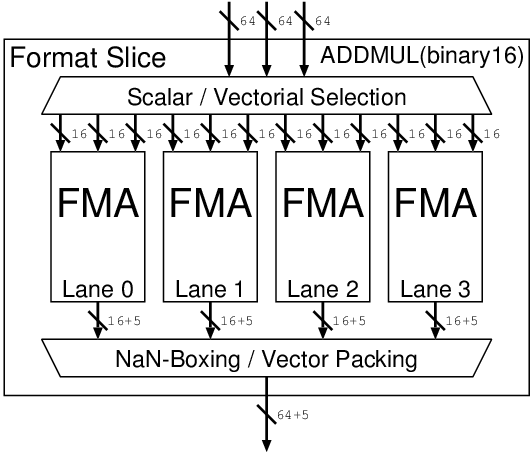
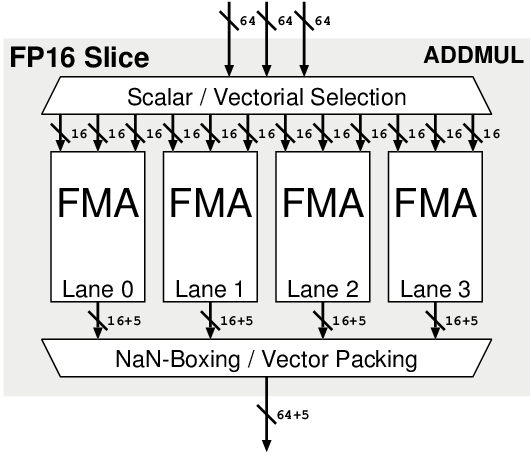
:books: Update documentation

diff --git a/ips/fpnew/docs/README.md b/ips/fpnew/docs/README.md
@@ -427,6 +427,8 @@ Results from all lanes are collected and assembled at the output of the slice.
 
 Implementing units as merged slices usually yields best total area, however costs more in terms of per-format latency.
 
+When the `ADDMUL` block is implemented using the `MERGED` implementation, multi-format FMA (multiplication done in `src_format`, accumulation in `dst_format`) is automatically supported among all formats using `MERGED`.
+
 ![FPnew](fig/multislice_block.png)
 
 
@@ -435,6 +437,9 @@ Implementing units as merged slices usually yields best total area, however cost
 Pipeline registers are inserted into the operational units directly, according to the settings in the  `Implementation` parameter.
 As such, each slice in the system can have a different latency.
 Merged slices are bound to thave the largest latency of the included formats.
+
+All pipeline registers are inserted as shift registers at predefined locations in the FPU.
+For optimal mapping, retiming funcitonality of your synthesis tools should be used to balance the paths between registers.
 
 Data traverses the pipeline stages within the operational units using the same handshaking mechanism that is also present at the top-level FPU interface.
 An individual pipeline stage is only stalled if its successor stage is stalled and cannot proceed in the following cycle.

diff --git a/ips/fpnew/docs/CHANGELOG.md b/ips/fpnew/docs/CHANGELOG.md
@@ -8,8 +8,14 @@ In this sense, we interpret the "Public API" of a hardware module as its port/pa
 
 
 ## [Unreleased]
+
 ### Added
+- Documentation about multi-format operations
+- Extended pipelining description slightly
+
 ### Changed
+- Updated diagrams in architecture documentation
+
 ### Fixed
 
 ## [0.5.3] - 2019-05-31
@@ -17,10 +23,12 @@ In this sense, we interpret the "Public API" of a hardware module as its port/pa
 ### Fixed
 - ips_list.yml entry for updated common_cells
 
+
 ## [0.5.2] - 2019-05-31
 
 ### Fixed
 - Internal pipeline bypass in cast unit
+
 
 ## [0.5.1] - 2019-05-27
 

diff --git a/ips/fpnew/README.md b/ips/fpnew/README.md
@@ -30,6 +30,8 @@ Multiple integer formats with arbitrary number of bits (as source or destionatio
 - Conversions between FP formats and integers (signed & unsigned) and vice versa
 - Classification
 
+Multi-format FMA operations (i.e. multiplication in one format, accumulation in another) are optionally supported. 
+
 Optionally, *packed-SIMD* versions of all the above operations can be generated for formats narrower than the FPU datapath width.
 E.g.: Support for double-precision (64bit) operations and two simultaneous single-precision (32bit) operations.
 
